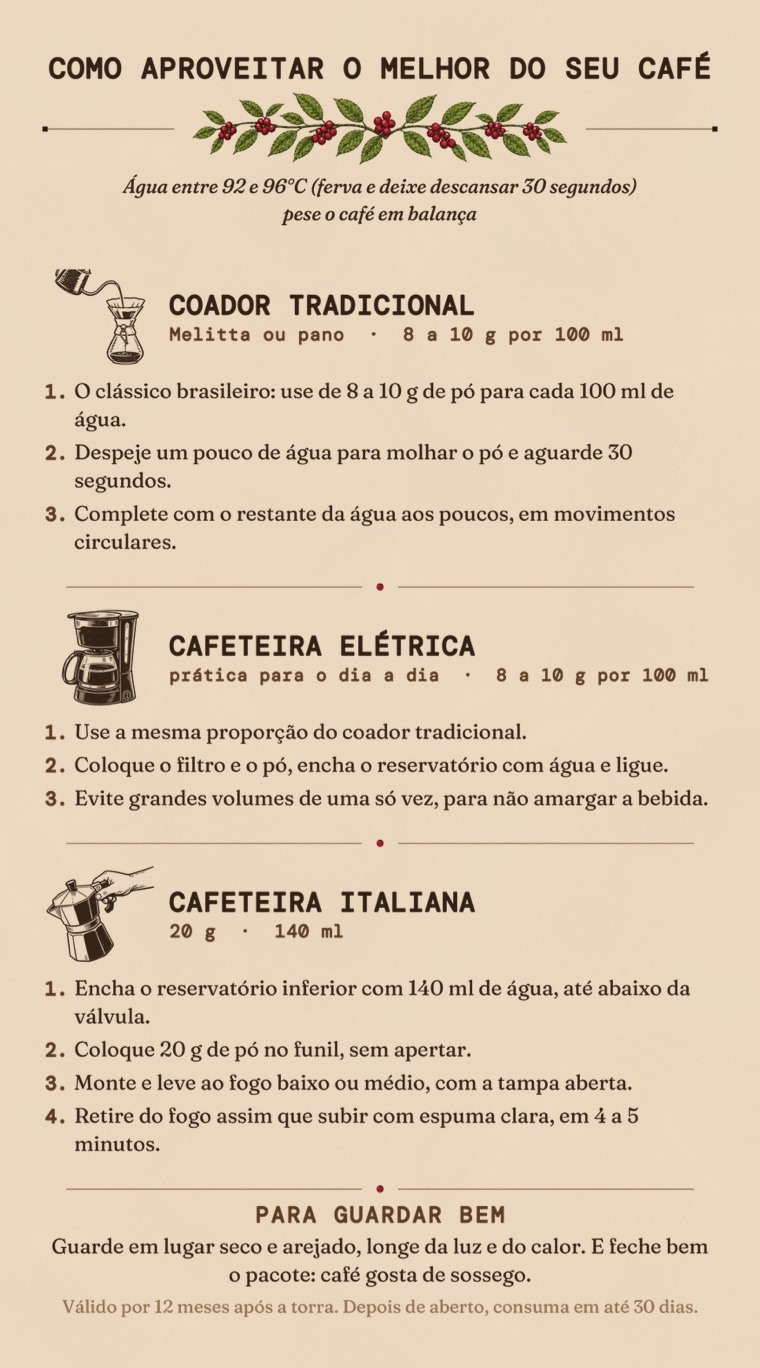
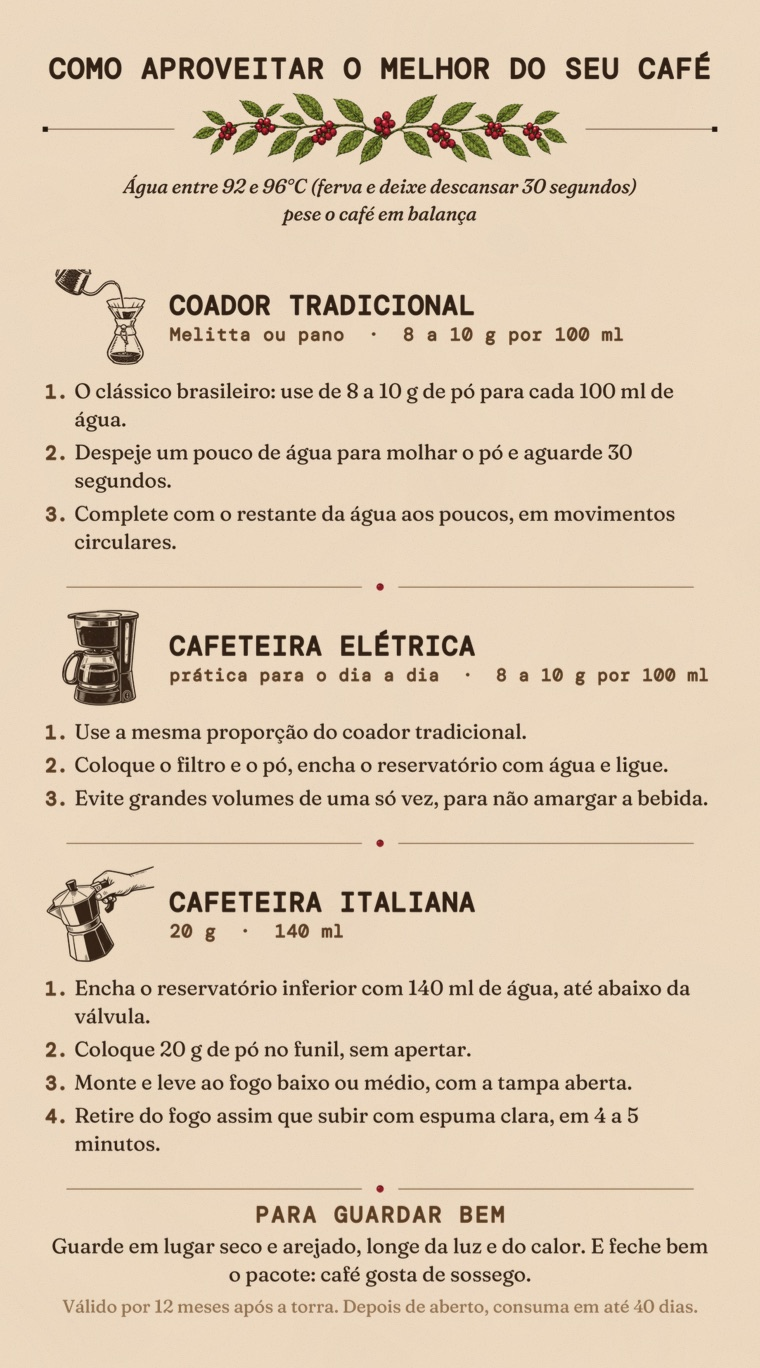
feat: 40 dias depois de aberto e link da historia com as fotos

diff --git a/src/components/Cafes.tsx b/src/components/Cafes.tsx
@@ -36,9 +36,9 @@ function descricaoArte(c: Cafe) {
    Santa, que vai moído, traz receitas de coador e cafeteira */
 const ALT_VERSO = {
   especial:
-    "Como aproveitar o melhor do seu café: água entre 92 e 96 °C e o café pesado em balança. Coado no filtro, 20 g de moagem média para 300 ml, em 3 a 4 minutos. Prensa francesa, 30 g de moagem grossa para 450 ml, em 4 minutos. Cafeteira italiana, 20 g de moagem média-fina para 140 ml. Guarde em lugar seco e arejado, longe da luz e do calor, e feche bem o pacote; depois de aberto, consuma em até 30 dias.",
+    "Como aproveitar o melhor do seu café: água entre 92 e 96 °C e o café pesado em balança. Coado no filtro, 20 g de moagem média para 300 ml, em 3 a 4 minutos. Prensa francesa, 30 g de moagem grossa para 450 ml, em 4 minutos. Cafeteira italiana, 20 g de moagem média-fina para 140 ml. Guarde em lugar seco e arejado, longe da luz e do calor, e feche bem o pacote; depois de aberto, consuma em até 40 dias.",
   minassanta:
-    "Como aproveitar o melhor do seu café: água entre 92 e 96 °C e o café pesado em balança. Coador tradicional, de Melitta ou de pano, com 8 a 10 g de pó para cada 100 ml. Cafeteira elétrica, na mesma proporção, sem fazer grandes volumes de uma vez para não amargar. Cafeteira italiana, 20 g para 140 ml, em fogo baixo ou médio. Guarde em lugar seco e arejado, longe da luz e do calor, e feche bem o pacote; depois de aberto, consuma em até 30 dias.",
+    "Como aproveitar o melhor do seu café: água entre 92 e 96 °C e o café pesado em balança. Coador tradicional, de Melitta ou de pano, com 8 a 10 g de pó para cada 100 ml. Cafeteira elétrica, na mesma proporção, sem fazer grandes volumes de uma vez para não amargar. Cafeteira italiana, 20 g para 140 ml, em fogo baixo ou médio. Guarde em lugar seco e arejado, longe da luz e do calor, e feche bem o pacote; depois de aberto, consuma em até 40 dias.",
 };
 
 /* As artes do rótulo saem de dentro dos PDFs da gráfica, no papel do

diff --git a/src/components/Capa.tsx b/src/components/Capa.tsx
@@ -260,7 +260,7 @@ export default function Capa() {
           style={{ color: "#e8b98d", ...linha(1.8) }}
           data-print-hide
         >
-          Ler a história · 3 min
+          Nossa história e fotos da propriedade · 3 min
           <span aria-hidden="true">↓</span>
         </a>
 
